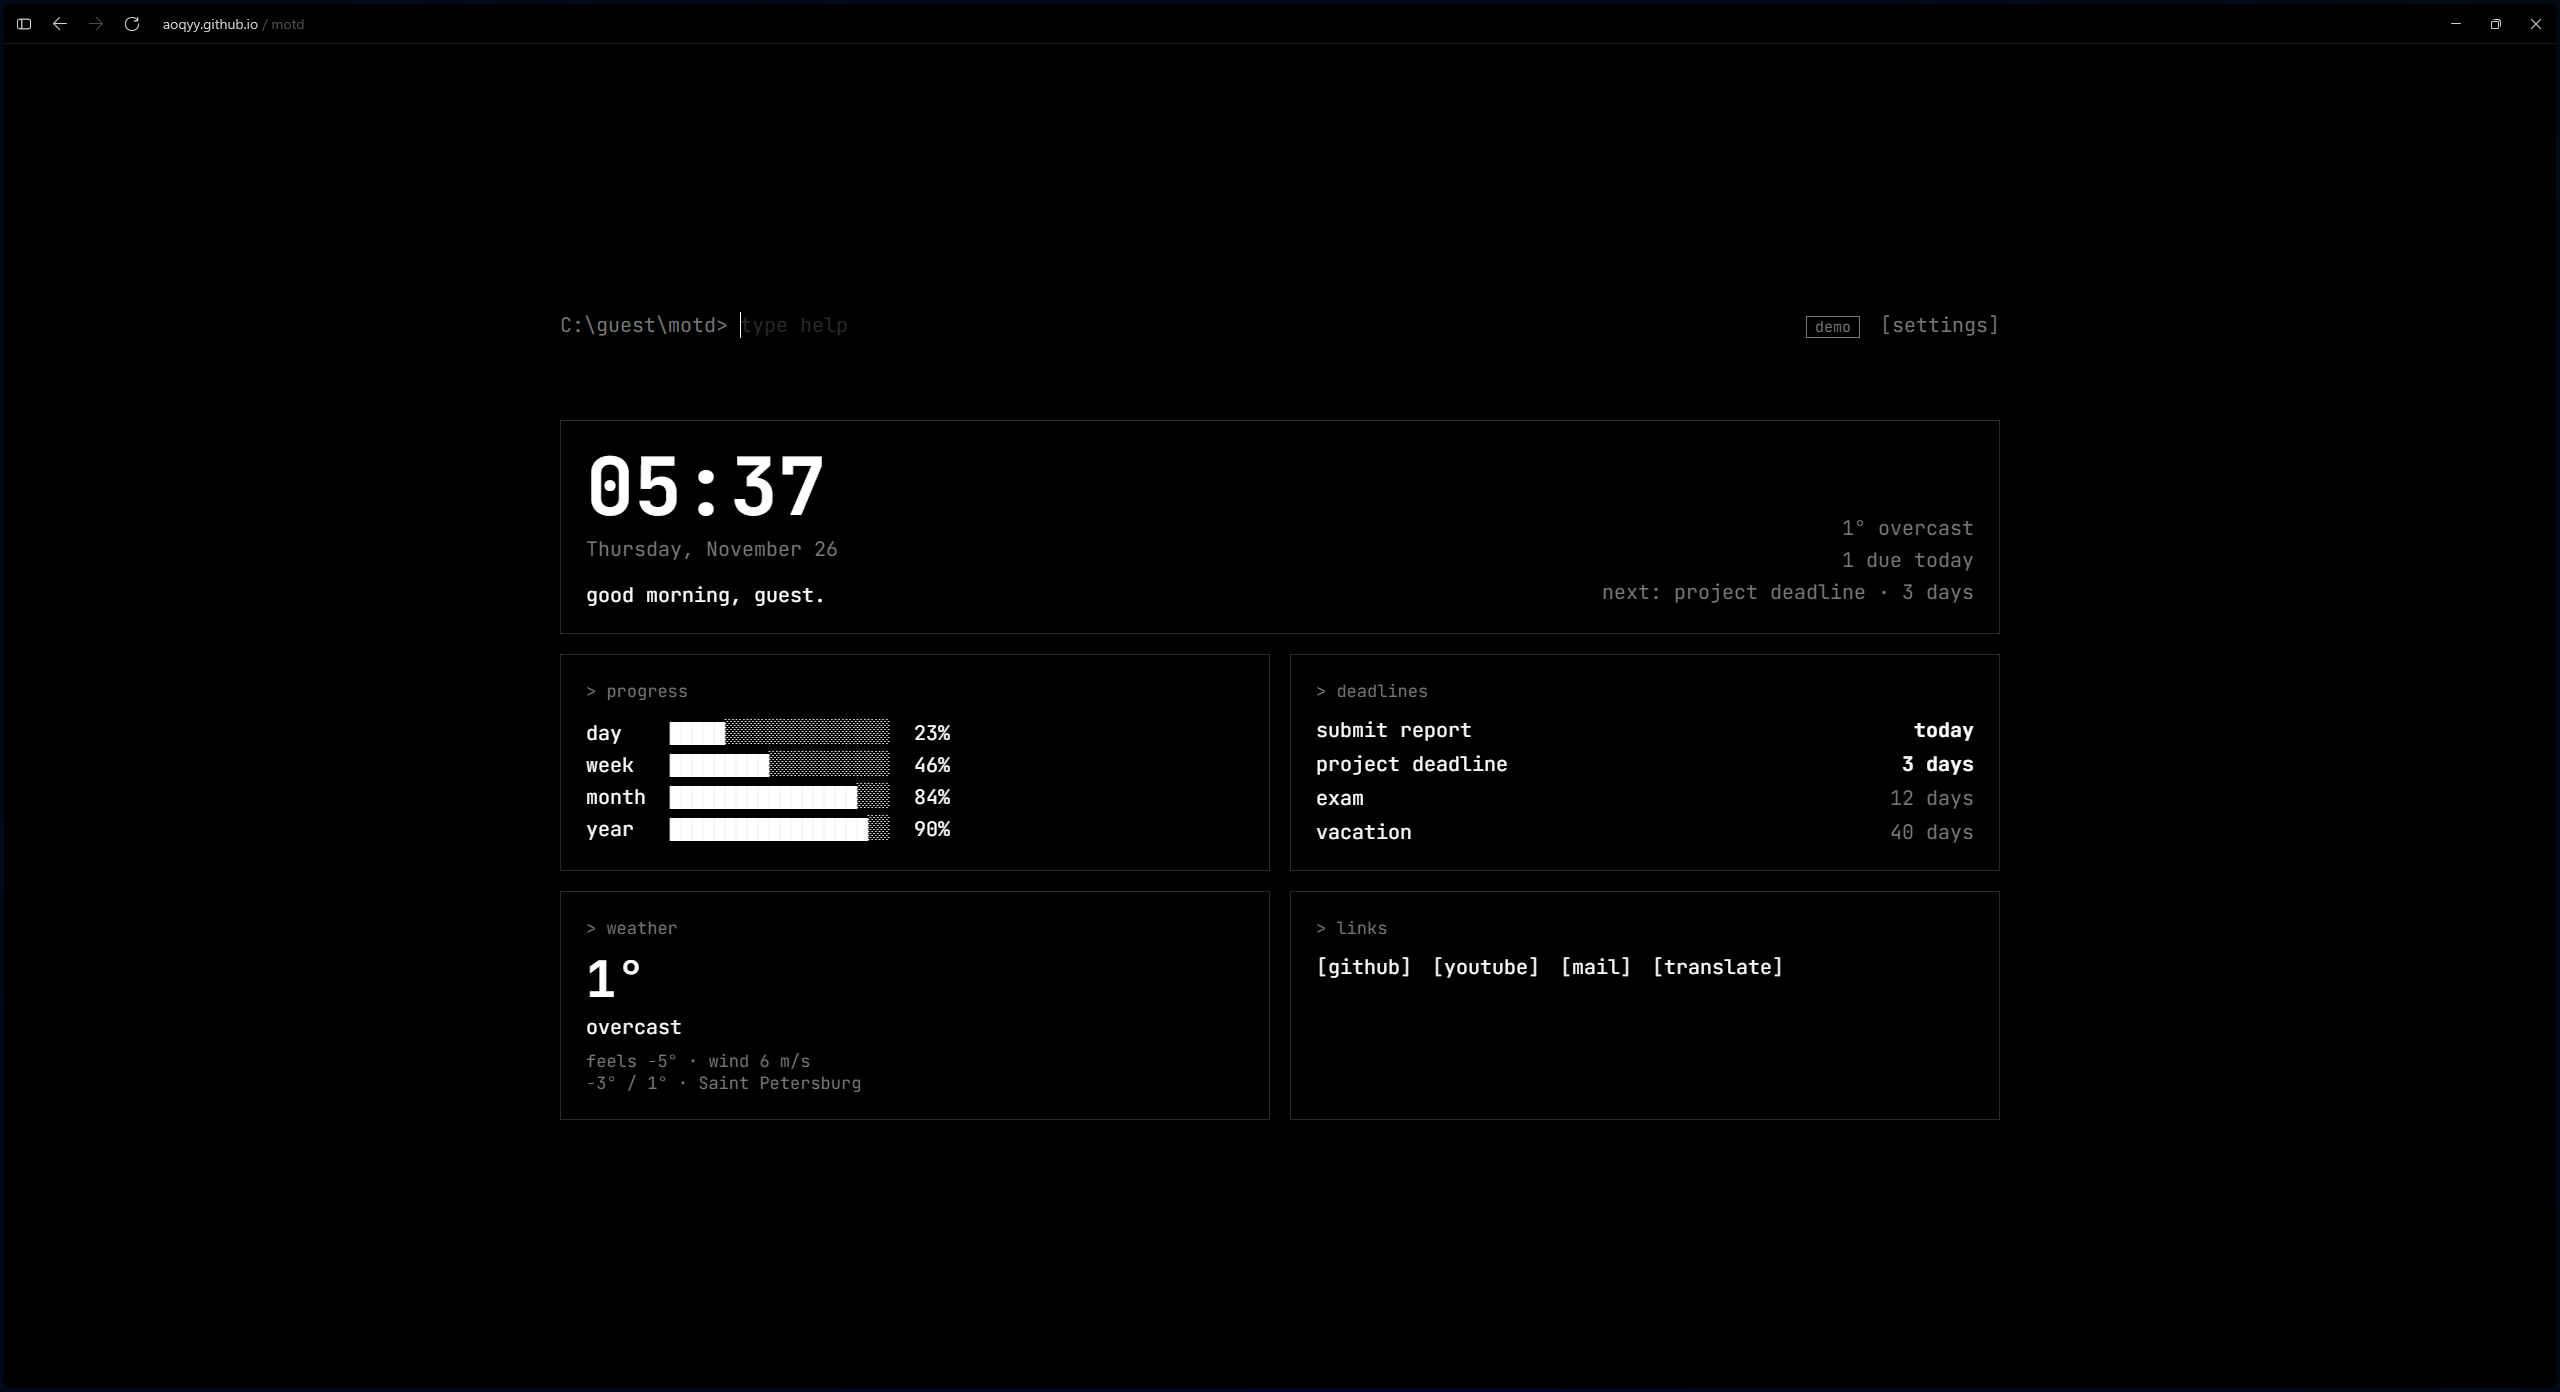
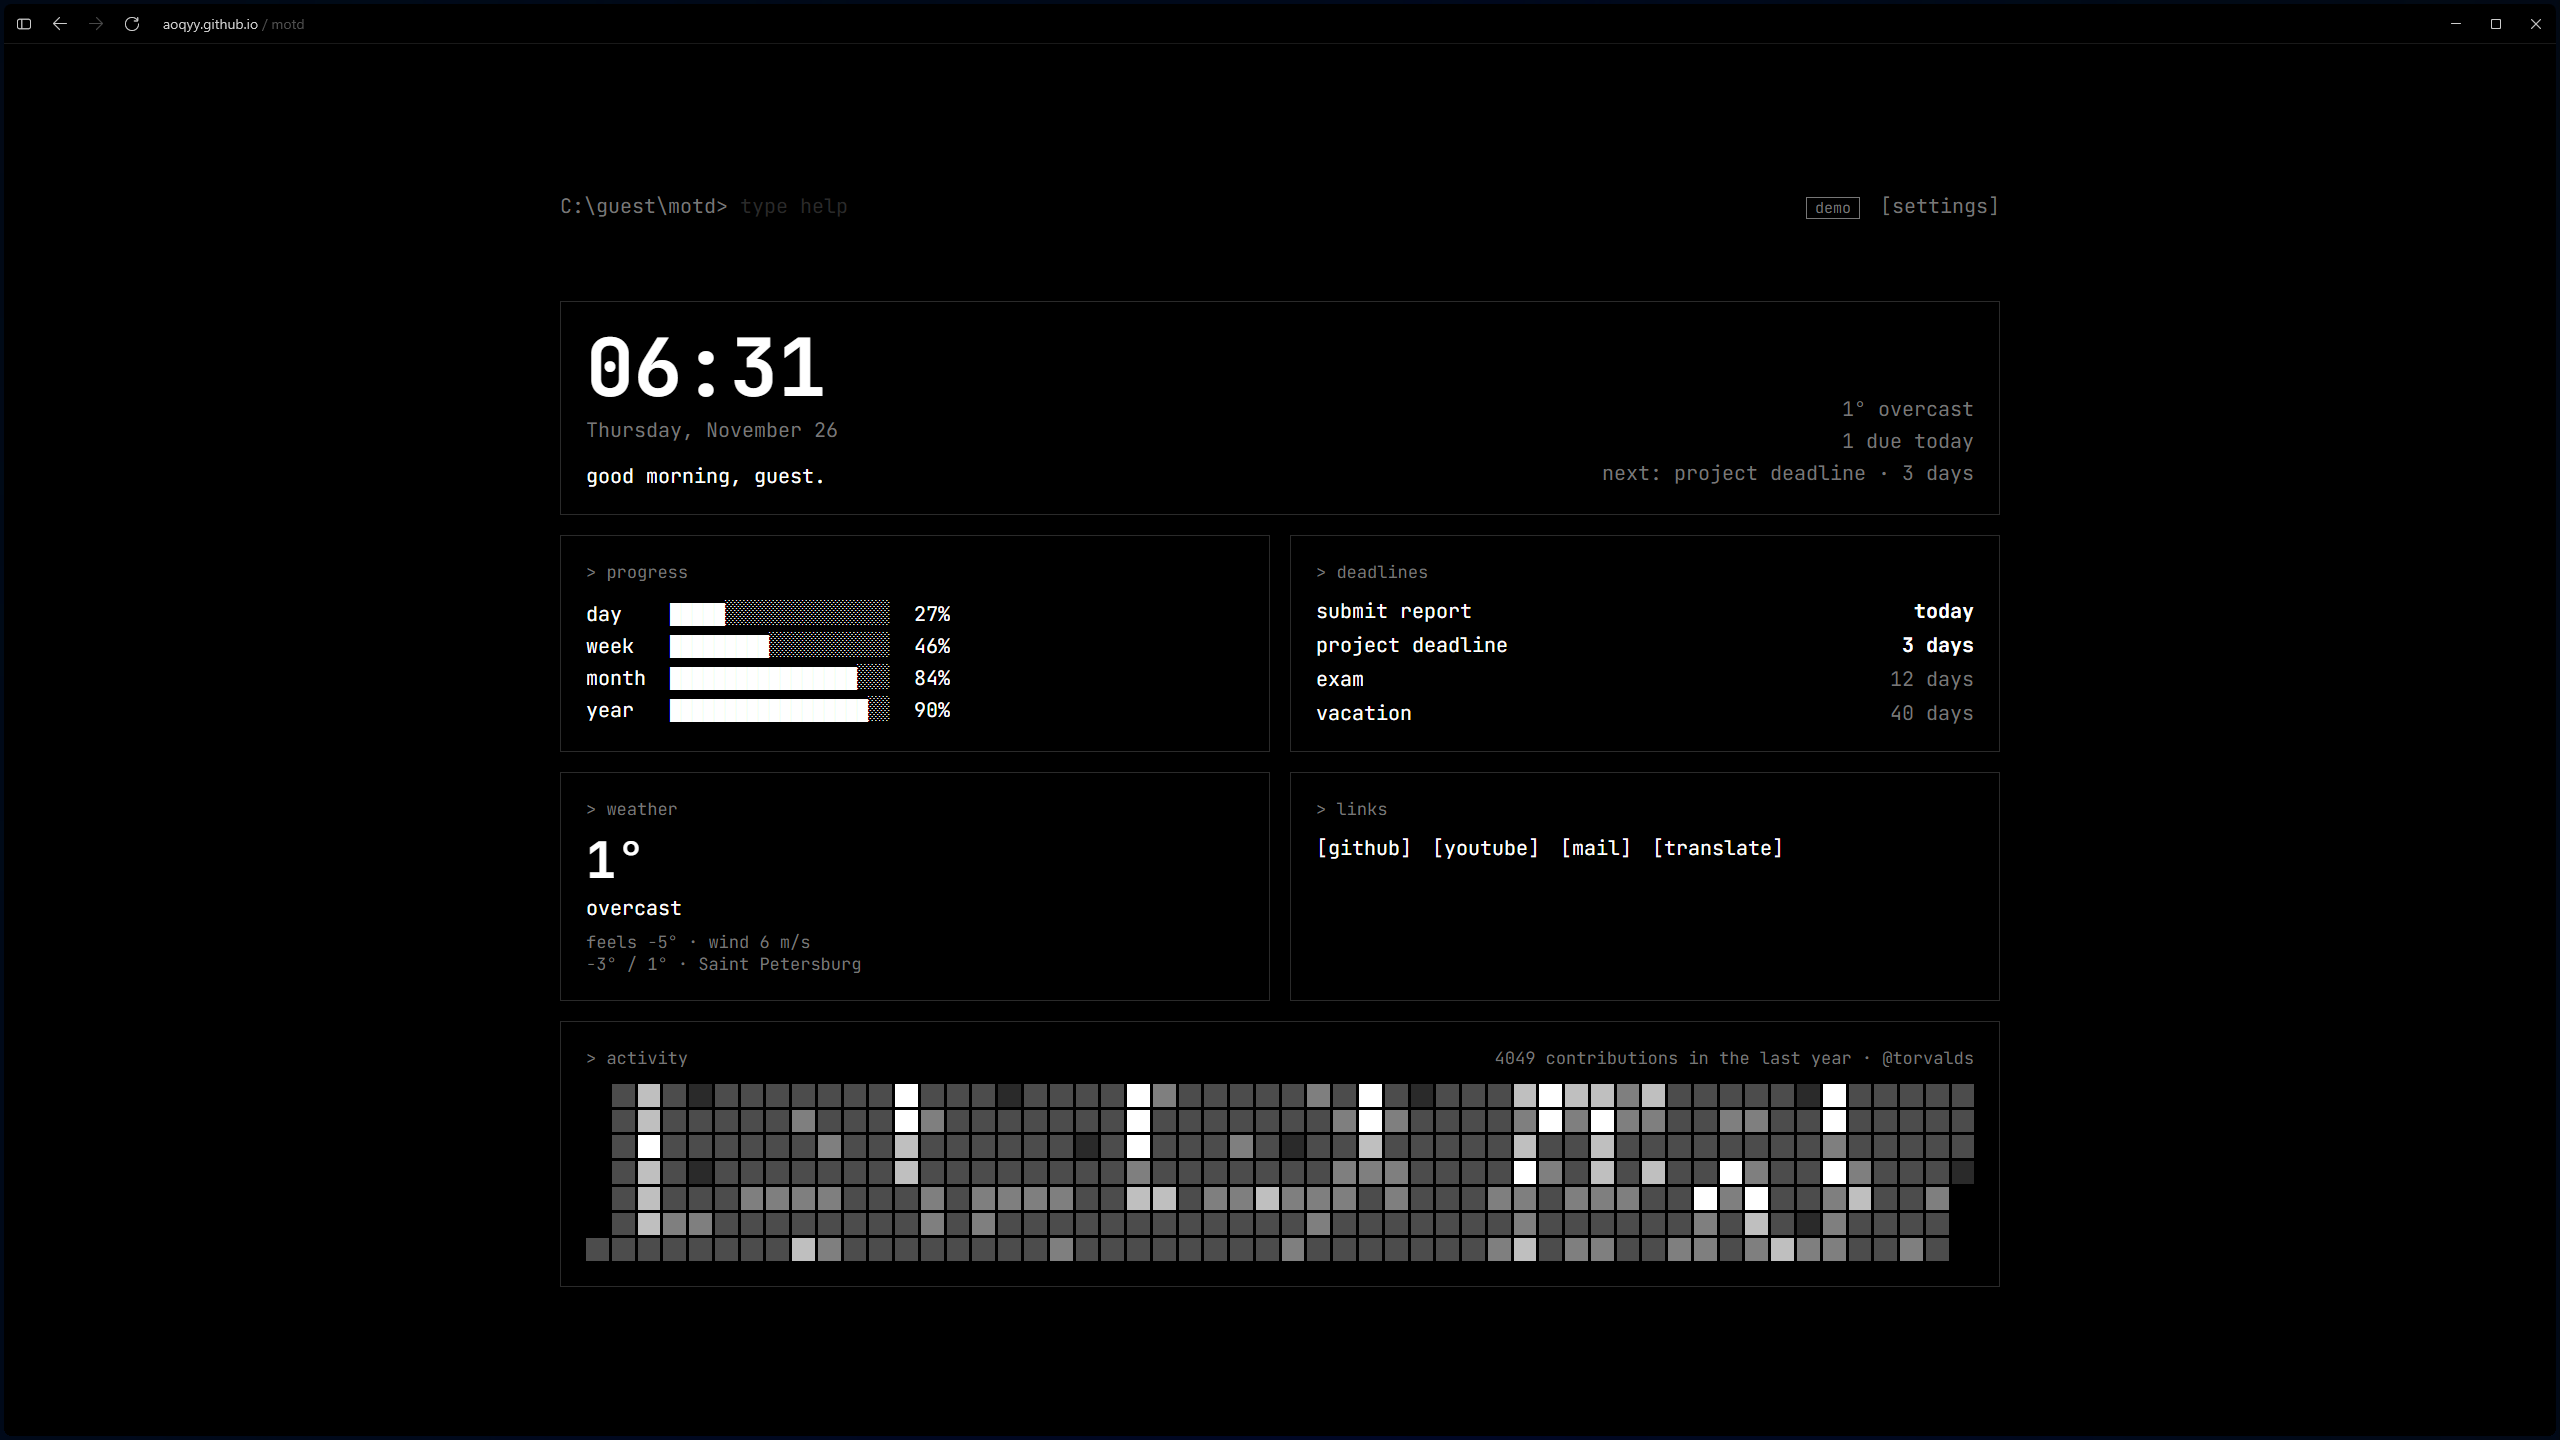
readme: prefixes, activity, link styles

diff --git a/README.md b/README.md
@@ -1,7 +1,7 @@
 # motd
 
 **m**essage **o**f **t**he **d**ay: a minimal terminal-style start page for your browser.
-Type commands, search anything, keep your deadlines, weather and links in one place.
+Type commands, search anything, keep your deadlines, weather, links and GitHub activity in one place.
 No accounts, no server, your data never leaves your browser.
 
 **[→ live demo](https://aoqyy.github.io/motd/)**
@@ -24,16 +24,17 @@ C:\aoki\motd> yt lofi hip hop
 | anything else                                             | search Google                                              |
 | `add 2026-12-25 exam` / `add +3 report`                   | add a deadline by date or in N days                        |
 | `done exam`                                               | remove a deadline, part of the title is enough             |
+| `prefix` · `prefix add so <url with %s>` · `prefix rm so` | list, add or remove your own search prefixes               |
+| `activity aoqyy`                                          | show the GitHub contribution grid for a user               |
 | `weather tokyo`                                           | change the city                                            |
 | `name aoki`                                               | change your name                                           |
 | `settings` · `help` · `clear`                             | open settings · show help · clear output                   |
-| `prefix` · `prefix add so <url with %s>` · `prefix rm so` | list, add or remove your own search prefixes               |
-| `activity user123`                                        | show the GitHub contribution grid for a user123            |
 
 - dim inline suggestions from your history and commands, accept with `Tab` or `→`
 - `↑` `↓` to walk through history
 - `Ctrl+Enter` opens the result in a new tab, `Esc` clears the line
 - press any key anywhere on the page to jump back to the terminal
+- custom prefixes can override built-in ones, e.g. `prefix add g https://duckduckgo.com/?q=%s`
 
 ## Widgets
 
@@ -41,8 +42,8 @@ C:\aoki\motd> yt lofi hip hop
 - **progress**: how much of the day, week, month and year has passed
 - **deadlines**: sorted by date with a countdown, urgent ones highlighted, overdue struck through
 - **weather**: any city via [Open-Meteo](https://open-meteo.com), cached for 30 minutes, works offline with the last known data
-- **links**: your quick links in one row
-- **activity**: your GitHub contribution grid for the last year, via [github-contributions-api](https://github.com/grubersjoe/github-contributions-api)
+- **links**: your quick links in one row, as `[github]` or `{github}`
+- **activity**: your GitHub contribution grid for the last year, cached for an hour
 
 Plus a **settings** dialog to edit everything at once, with export / import of a JSON backup.
 Dark and light theme follow your system.
@@ -56,8 +57,8 @@ Use `[export]` in settings to back up your data or move it to another browser.
 ## Usage
 
 1. Open the [live demo](https://aoqyy.github.io/motd/)
-2. Type `name <your name>`, `weather <your city>` and `add +3 something`, or click `[settings]` to fill everything at once
-3. Set the page as your browser's home / startup page
+2. Type `name <your name>`, `weather <your city>`, `activity <github username>` and `add +3 something`, or click `[settings]` to fill everything at once
+3. Set the page as your browser's home / startup page, or pin it as a tab
 
 Or run it locally: clone the repo and open `index.html`. No build step, no dependencies.
 
@@ -66,10 +67,10 @@ Or run it locally: clone the repo and open `index.html`. No build step, no depen
 ```
 index.html        page layout, terminal and settings dialog
 style.css         all styles
-data.example.js   demo data
+data.example.js   defaults and demo data
 storage.js        load / save to localStorage
 settings.js       settings dialog, export / import
-terminal.js       command line: commands, search, history, suggestions
+terminal.js       command line: commands, search, prefixes, history, suggestions
 app.js            starts widgets and the update loop
 widgets/          one file per widget
 ```
@@ -77,15 +78,15 @@ widgets/          one file per widget
 ## Roadmap
 
 - [x] terminal with search prefixes, history and suggestions
-- [x] custom search prefixes in settings
+- [x] custom search prefixes
 - [x] GitHub contributions
 - [ ] scratch note
 - [ ] toggle and reorder widgets
-- [ ] browser extension for the new tab page
+- [ ] typing effect for the greeting
 
 ## Credits
 
-Weather by [Open-Meteo](https://open-meteo.com) · font [JetBrains Mono](https://www.jetbrains.com/lp/mono/) · contributions by [github-contributions-api](https://github.com/grubersjoe/github-contributions-api).
+Weather by [Open-Meteo](https://open-meteo.com) · contributions by [github-contributions-api](https://github.com/grubersjoe/github-contributions-api) · font [JetBrains Mono](https://www.jetbrains.com/lp/mono/)
 
 ## License
 
